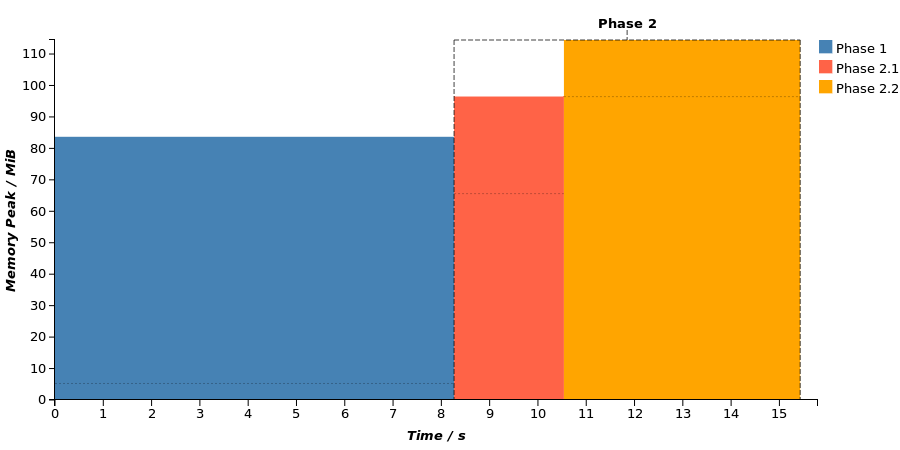
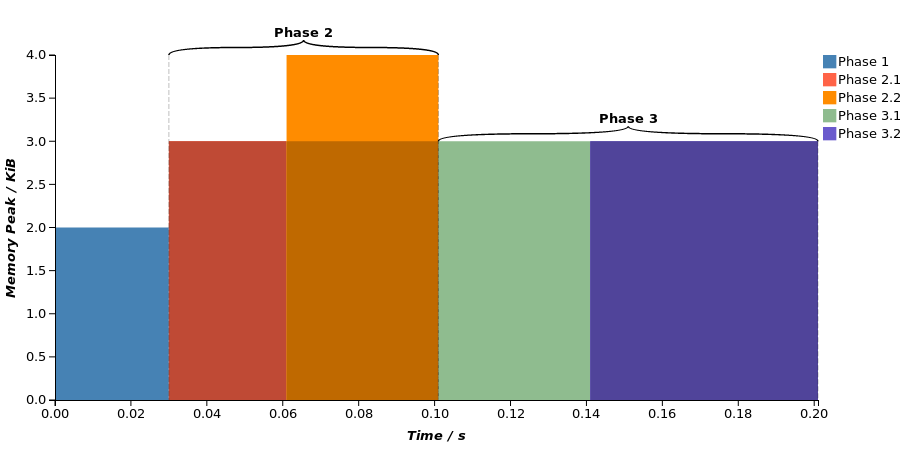
Update documentation

diff --git a/test/doc_snippets/stats.cpp b/test/doc_snippets/stats.cpp
@@ -50,28 +50,23 @@ TEST(stats, example) {
         delete[] alloc2;
     });
 
-    // Phase 3.X (looping)
+    // Phase 3 (splitting)
     StatPhase::wrap("Phase 3", []{
-        IntVector<uint32_t> vec(512, 0);
+        // Phase 3.1 yields a complex result
+        StatPhase sub_phase("Phase 3.1");
         
-        StatPhase sub_phase("Init");
-        int count = 0;
-        while(!vec.empty()) {
-            vec.pop_back();
-            std::this_thread::sleep_for(std::chrono::milliseconds(1));
+        char* result_part_1 = new char[1024];
+        char* result_part_2 = new char[2048];
+        std::this_thread::sleep_for(std::chrono::milliseconds(40));
 
-            if((++count % 128) == 0) {
-                vec.shrink_to_fit();
-
-                if(!vec.empty()) {
-                    sub_phase.split(std::string("@") + std::to_string(vec.size()));
-                    sub_phase.log_stat("remaining", vec.size());
-                }
-            }
-        };
+        // Phase 3.2 may use the result
+        sub_phase.split("Phase 3.2");
+        delete[] result_part_2;
+        delete[] result_part_1;
+        std::this_thread::sleep_for(std::chrono::milliseconds(60));
     });
 
-    // Conclude tracking and print JSON to stdout
+    // Print data in JSON representation to stdout
     root.to_json().str(std::cout);
 }
 

diff --git a/docs/Documentation.md b/docs/Documentation.md
@@ -619,10 +619,8 @@ application.
 
 When instantiated, an algorithm receives an environment object
 ([`Env`](@DX_ENV@)) via its [constructor](@DX_ALGORITHM_CTOR@). The environment
-provides access to algorithm options as explained below, as well as other
-*tudocomp* features like the [runtime statistics](#runtime-statistics).
-
-The environment is retrieved using the [`env`](@DX_ALGORITHM_ENV@) function.
+provides access to algorithm options as explained below. It is retrieved using
+the [`env`](@DX_ALGORITHM_ENV@) function.
 
 ### Options
 
@@ -1205,8 +1203,7 @@ that has to take care of this.
 
 *tudocomp* provides functionality to measure the running time and the amount of
 dynamically allocated memory (e.h. via `malloc` or `new`) over the application
-lifetime. This functionality is accessible via an algorithm's environment (see
-[Environment](#environment) section).
+lifetime.
 
 Recall at this point the restrictions when trying to use these features in a
 Windows enviroment (see [Windows Support](#windows-support)).
@@ -1214,80 +1211,157 @@ Windows enviroment (see [Windows Support](#windows-support)).
 Runtime statistics are tracked in *phases*, ie. the running time and memory
 peak can be measured for individual stages during an algorithm's run. These
 phases may be nested, ie., a phase can consist of multiple other phases. When
-a top-level algorithm is instantiated (e.g. using `create_algo`) it will
-automatically enter a *root phase*.
+using the *tudocomp* command-line tool, a root phase is automatically started
+immediately before the selected algorithm starts.
 
 The measured data can be retrieved in a JSON representation in order to
 visualize it using the [*tudocomp Charter*](#charter-web-application) or to
 process in a third-party application.
 
-Making use of the statistics tracking functions is as easy as sorrounding
-single phases with calls to the
-[`begin_stat_phase`](@DX_ENV_BEGINSTATPHASE@) and
-[`end_stat_phase`](@DX_ENV_ENDSTATPHASE@) functions. Any code within a phase
-is subject to time and memory measurement.
+Statistics tracking is implemented by the [`StatPhase`](@DX_STATPHASE@) class.
+By creating a `StatPhase` object, a new phase is started. The
+[constructor](@DX_STATPHASE_CTOR@) accepts the phase's title as a string. The
+phase ends either when the object is destroyed (e.g. when it runs out of scope)
+or when the phase is split (see below). Any code executed within a phase is
+subject to time and memory measurement.
 
-To that regard, in order to receive meaningful results, each phase should
-"clean up" properly, ie. it should free any memory that is no longer needed
-after the phase is finished. This can be easily achieved by making proper use of
-scopes, to name one example.
+In order to receive meaningful results, each phase should "clean up" properly,
+ie., it should free any memory that is no longer needed after the phase is
+finished. This can be achieved using scopes, but the `StatPhase` class also
+offers a way to enforce clean phase-based programming using the
+[`StatPhase::wrap`](@DX_STATPHASE_WRAP@) functor. It receives a lambda that
+implements the phase and is allowed to return a result to the outer program
+flow.
 
 The following example runs through a few different phases with different
-processing times (realized using sleep) and memory allocations (realized using
-simple allocs).
+processing times and memory allocations (for demonstration purposes, this is
+realized using sleeping and simply array allocations):
 
 ~~~ { .cpp caption="stats.cpp" }
-    // Phase 1
-    env.begin_stat_phase("Phase 1");
-    {
-        char* alloc1 = new char[2048];
-        std::this_thread::sleep_for(ms(30));
-        delete[] alloc1;
-    }
-    env.end_stat_phase();
+StatPhase root("Root");
 
-    // Phase 2
-    env.begin_stat_phase("Phase 2");
-    {
-        char* alloc2 = new char[3072];
+// Phase 1
+StatPhase::wrap("Phase 1", []{
+    char* alloc1 = new char[2048];
+    std::this_thread::sleep_for(std::chrono::milliseconds(30));
+    delete[] alloc1;
+});
 
-        // Phase 2.1
-        env.begin_stat_phase("Phase 2.1");
-        {
-            std::this_thread::sleep_for(ms(30));
-            env.log_stat("A statistic", 147);
-            env.log_stat("Another statistic", 0.5);
-        }
-        env.end_stat_phase();
+// Phase 2
+StatPhase::wrap("Phase 2", []{
+    char* alloc2 = new char[3072];
 
-        // Phase 2.2
-        env.begin_stat_phase("Phase 2.2");
-        {
-            char* alloc2_2 = new char[1024];
-            std::this_thread::sleep_for(ms(40));
-            delete[] alloc2_2;
-        }
-        env.end_stat_phase();
+    // Phase 2.1
+    StatPhase::wrap("Phase 2.1", []{
+        std::this_thread::sleep_for(std::chrono::milliseconds(30));
 
-        delete[] alloc2;
-    }
-    env.end_stat_phase();
+        StatPhase::log("A statistic", 147);
+        StatPhase::log("Another statistic", 0.5);
+    });
 
-    // Conclude tracking and print JSON to stdout
-    env.finish_stats().to_json().str(std::cout);
+    // Phase 2.2
+    StatPhase::wrap("Phase 2.2", []{
+        char* alloc2_2 = new char[1024];
+        std::this_thread::sleep_for(std::chrono::milliseconds(40));
+        delete[] alloc2_2;
+    });
+
+    delete[] alloc2;
+});
+
+// Print data in JSON representation to stdout
+root.to_json().str(std::cout);
 ~~~
 
 During any phase, custom statistics can be logged using the
-[`log_stat`](@DX_ENV_LOGSTAT@) method.
+[`StatPhase::log`](@DX_STATPHASE_LOG@) method.
 
-As seen in the last line, statistics tracking is concluded using the
-[`finish_stats`](@DX_ENV_FINISHSTATS@) function, which yields a reference to a
-[`Stat`](@DX_STAT@) object. The JSON representation can be retrieved using its
-[`to_json`](@DX_STAT_TOJSON@) function. For the above example, the following
-JSON output is produced:
+As seen in the last line, the JSON representation of the measured data can be
+retrieved using the [`to_json`](@DX_STATPHASE_TOJSON@) function. For the above
+example, the following JSON output is produced:
 
->> TODO: Fix [#18315](https://projekte.itmc.tu-dortmund.de/issues/18315), then
-   execute example.
+~~~ { .json }
+{
+    "memFinal": 0,
+    "memOff": 0,
+    "memPeak": 4096,
+    "stats": [],
+    "sub": [{
+        "memFinal": 0,
+        "memOff": 0,
+        "memPeak": 2048,
+        "stats": [],
+        "sub": [],
+        "timeEnd": 3330592,
+        "timeStart": 3330562,
+        "title": "Phase 1"
+    },{
+        "memFinal": 0,
+        "memOff": 0,
+        "memPeak": 4096,
+        "stats": [],
+        "sub": [{
+            "memFinal": 0,
+            "memOff": 3072,
+            "memPeak": 0,
+            "stats": [{
+                "key": "A statistic",
+                "value": "147"
+            },{
+                "key": "Another statistic",
+                "value": "0.500000"
+            }],
+            "sub": [],
+            "timeEnd": 3330623,
+            "timeStart": 3330592,
+            "title": "Phase 2.1"
+        },{
+            "memFinal": 0,
+            "memOff": 3072,
+            "memPeak": 1024,
+            "stats": [],
+            "sub": [],
+            "timeEnd": 3330663,
+            "timeStart": 3330623,
+            "title": "Phase 2.2"
+        }],
+        "timeEnd": 3330663,
+        "timeStart": 3330592,
+        "title": "Phase 2"
+    }],
+    "timeEnd": 3330663,
+    "timeStart": 3330562,
+    "title": "Root"
+}
+~~~
+
+In some cases, phases of an algorithm compute complex results and would make it
+complicated to express them in a single lambda return statement. In other use
+cases, one may want to end a phase and begin a new phase within loop iterations
+in order to visualize progress.
+
+For these purposes, a phase can be "split" using the
+[`split`](@DX_STATPHASE_SPLIT@) function. Splitting causes the current phase
+to end and a new phase to begin immediately. The following example demonstrates
+phase splitting:
+
+~~~ { .cpp caption="stats.cpp" }
+// Phase 3 (splitting)
+StatPhase::wrap("Phase 3", []{
+    // Phase 3.1 yields a complex result
+    StatPhase sub_phase("Phase 3.1");
+    
+    char* result_part_1 = new char[1024];
+    char* result_part_2 = new char[2048];
+    std::this_thread::sleep_for(std::chrono::milliseconds(40));
+
+    // Phase 3.2 may use the result
+    sub_phase.split("Phase 3.2");
+    delete[] result_part_2;
+    delete[] result_part_1;
+    std::this_thread::sleep_for(std::chrono::milliseconds(60));
+});
+~~~
 
 ### Charter Web Application
 
@@ -1296,15 +1370,17 @@ that visualizes the statistics JSON output. Based on the data, it plots a
 bar chart that displays the single phases of the compression run with their
 running time on the X axis and their peak heap memory usage on the Y axis.
 
+The following figure shows the diagram corresponding from the JSON snippet
+from the previous section.
+
 ![A diagram plotted by the Charter.](media/charter_diagram.png)
 
->> TODO: Update to match the code example
-
-The shaded area within a phase bar visualizes the *memory offset* of the phase,
-ie., how much memory was already allocated at the beginning of the phase. Ergo,
-the top border of the bar displays the global, application-wide memory peak
-during the phase, while the phase's local memory peak is the difference between
-the whole and the shaded area.
+Observe the bar corresponding to Phase 2.2: The shaded area within the phase bar
+visualizes the *memory offset* of the phase, ie., how much memory was already
+allocated at the beginning of the phase. Alas, the top border of the bar
+displays the global, application-wide memory peak during the phase, while the
+phase's local memory peak is the difference between the whole and the shaded
+area.
 
 This information is explicitly printed in table view below the diagram. This is
 also where custom statistics are printed. The table view of a phase will also be
